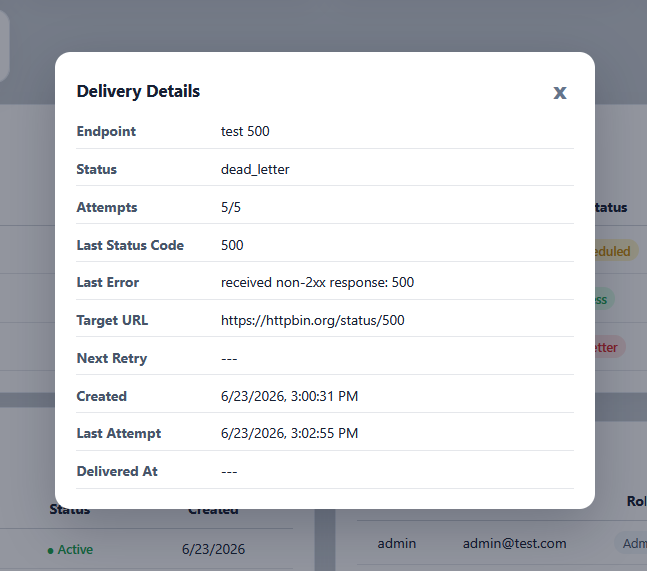
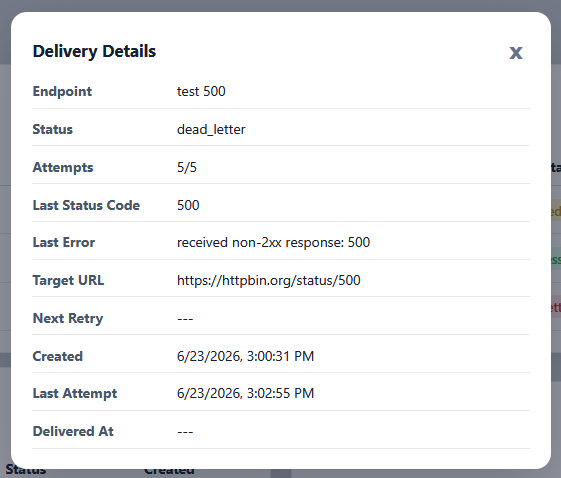
docs: update README screenshots

diff --git a/README.md b/README.md
@@ -56,12 +56,12 @@ This project became an opportunity to combine several backend concepts into a si
   <tr>
     <td align="center">
       <strong>User Dashboard</strong><br>
-      Manage webhook endpoints, monitor delivery metrics,<br>and inspect recent activity.<br><br>
+      Manage webhook endpoints, monitor delivery metrics, and inspect recent activity.
       <img src="assets/user-dashboard.png" width="400">
     </td>
     <td align="center">
       <strong>Admin Dashboard</strong><br>
-      Monitor users, endpoints, delivery outcomes, retry queues,<br>and dead-letter events across the system.<br><br>
+      Monitor users, endpoints, delivery outcomes, retry queues, and dead-letter events across the system.
       <img src="assets/admin-dashboard.png" width="500">
     </td>
   </tr>
